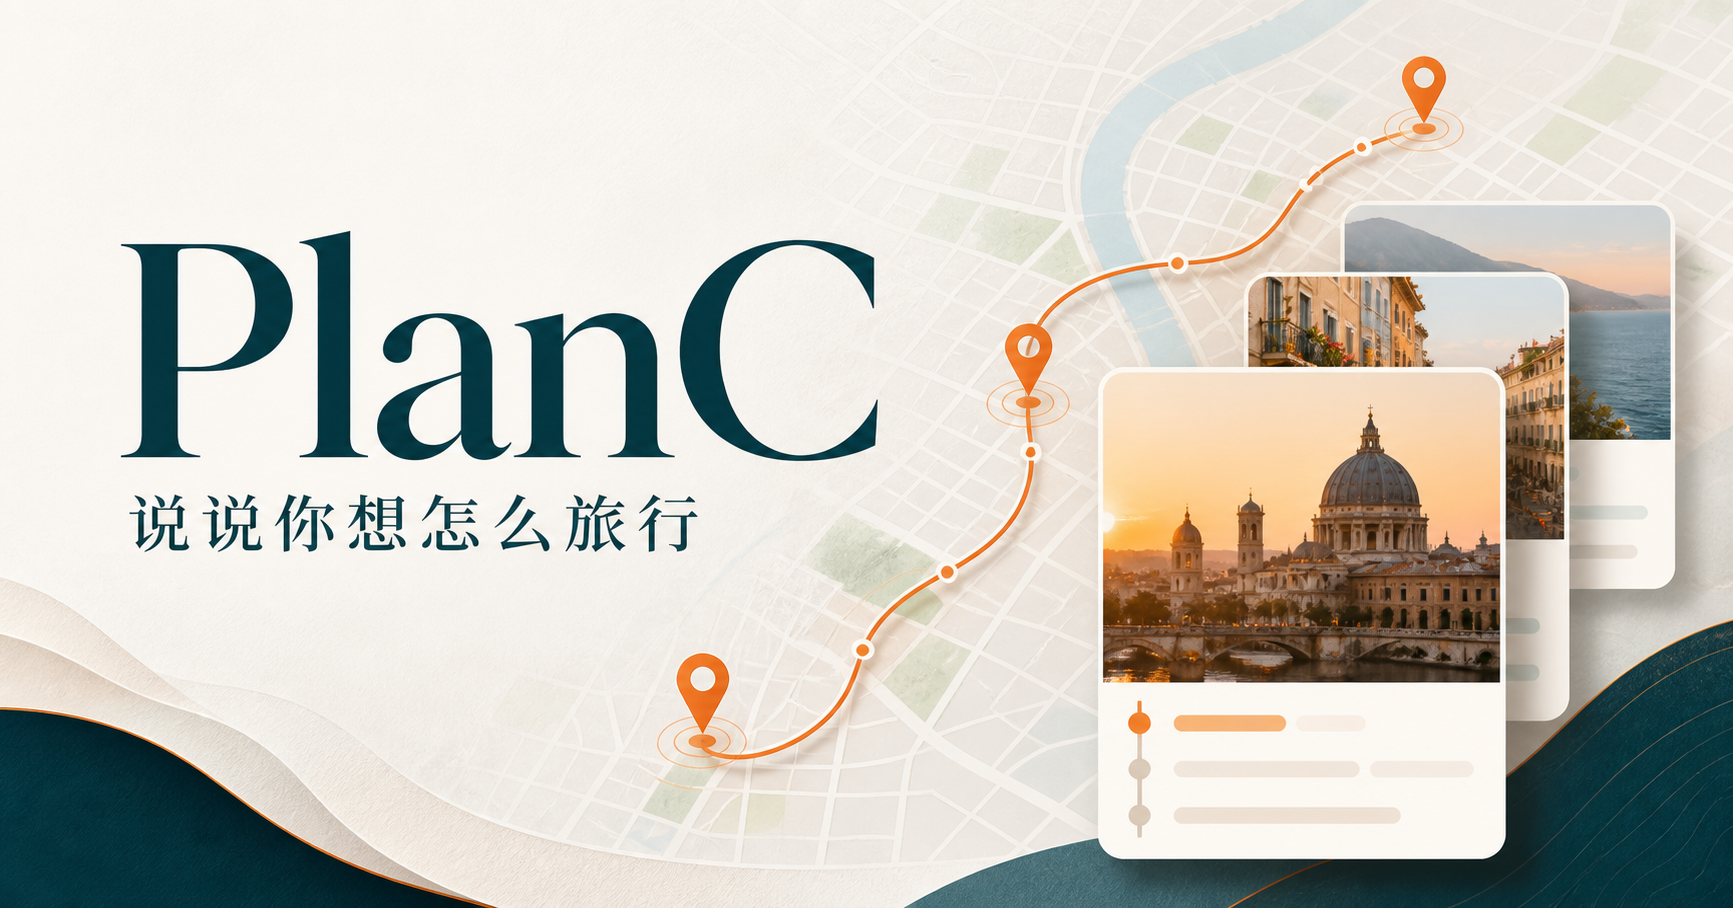
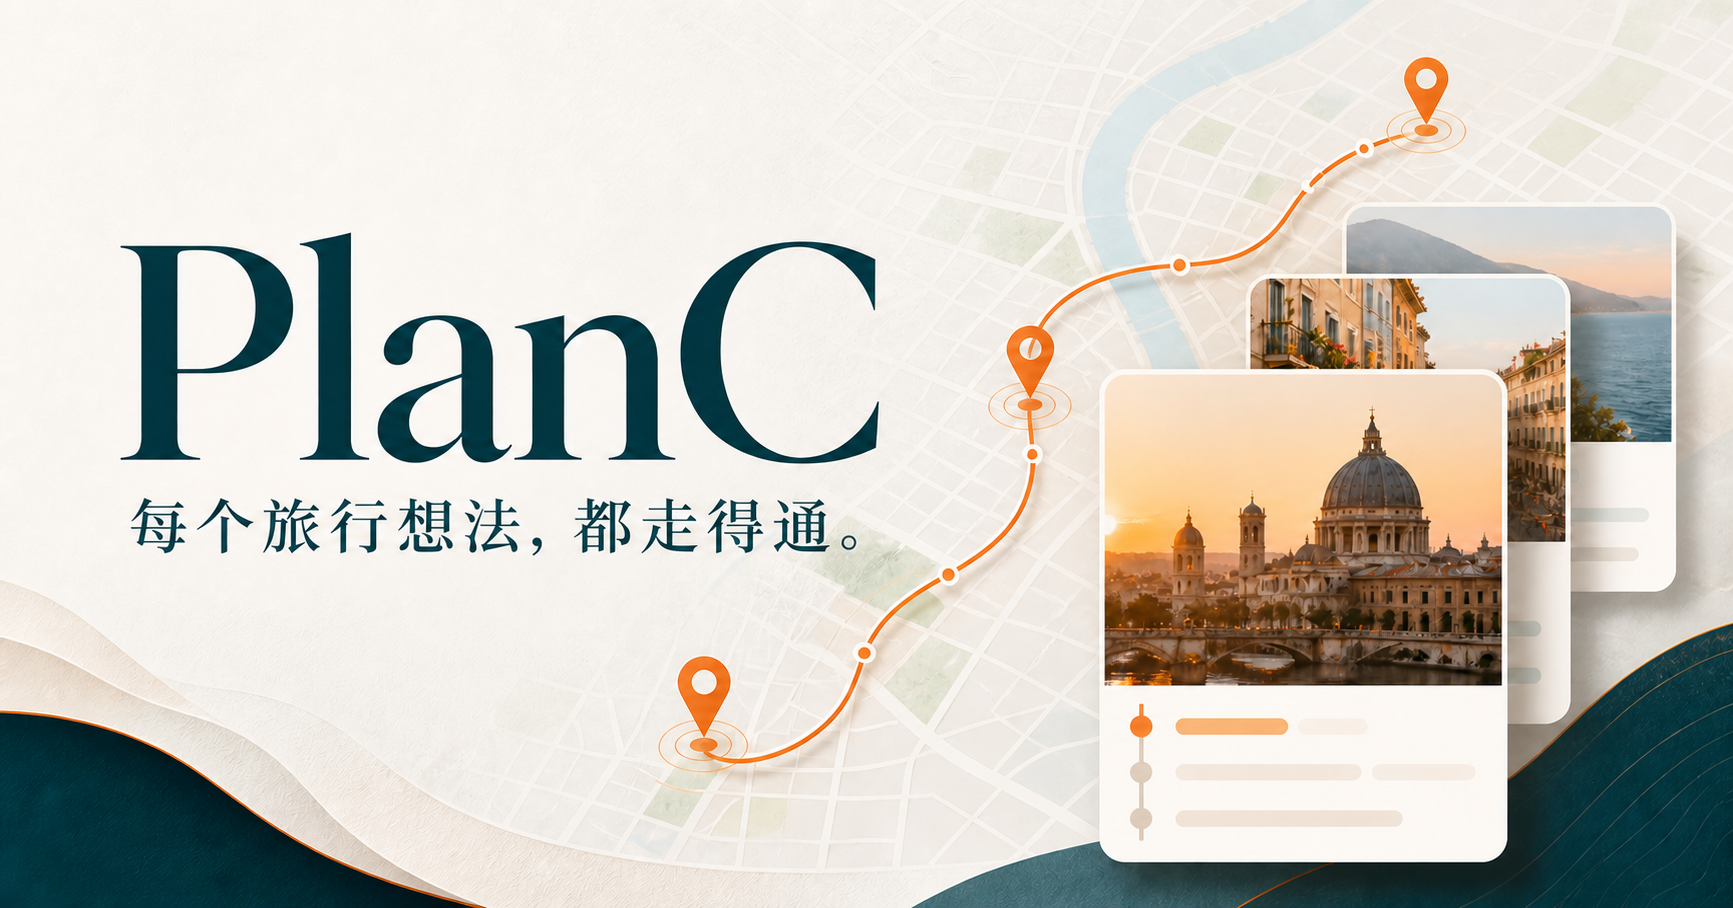
chore: update PlanC social preview slogan

diff --git a/web/app/layout.tsx b/web/app/layout.tsx
@@ -6,14 +6,14 @@ export const metadata:Metadata={
   description:'用自然语言生成并持续调整你的多日旅行计划。',
   openGraph:{
     title:'PlanC — AI 旅行规划师',
-    description:'说说你想怎么旅行，剩下的交给 PlanC。',
+    description:'每个旅行想法，都走得通。',
     type:'website',
     images:[{url:'/og.png',width:1733,height:908,alt:'PlanC AI 旅行规划师'}],
   },
   twitter:{
     card:'summary_large_image',
     title:'PlanC — AI 旅行规划师',
-    description:'说说你想怎么旅行，剩下的交给 PlanC。',
+    description:'每个旅行想法，都走得通。',
     images:['/og.png'],
   },
 };
